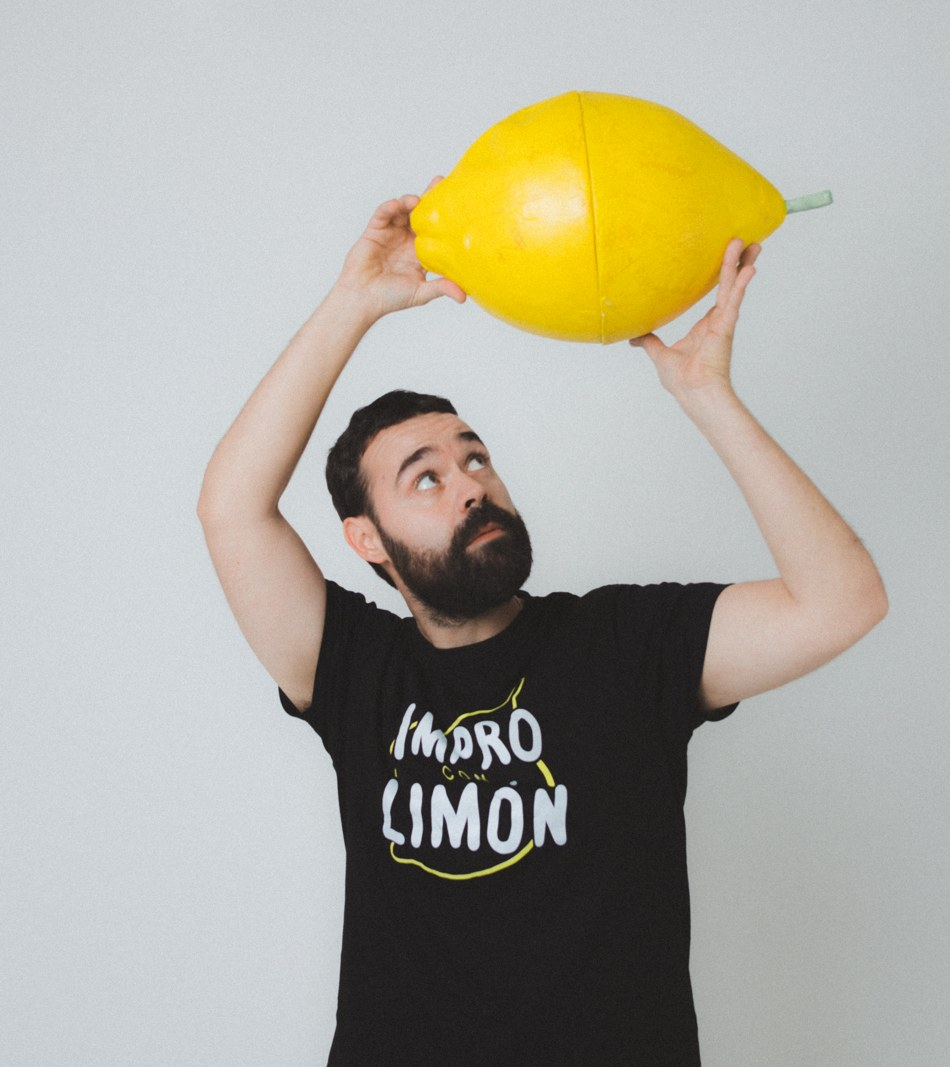
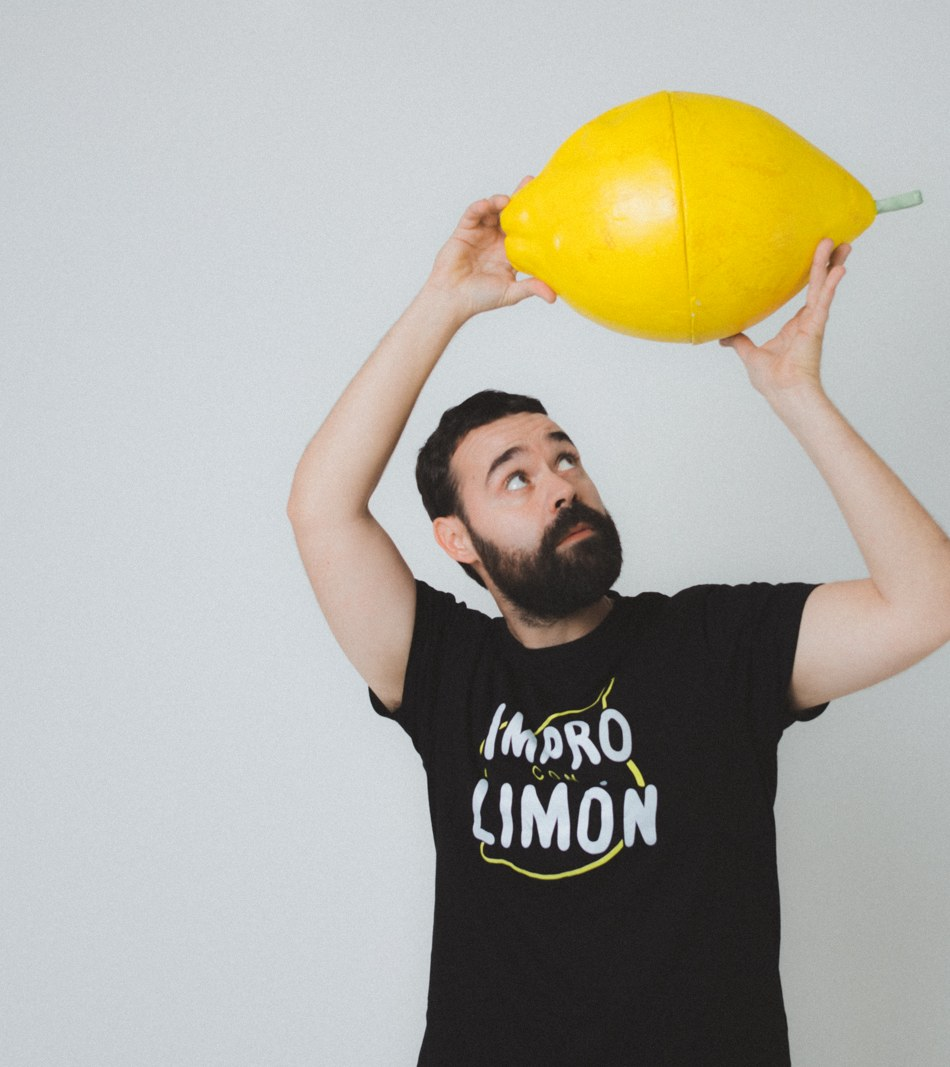
Recenter Héctor mobile photo on his head

diff --git a/index.html b/index.html
@@ -17,7 +17,7 @@
   <link rel="preconnect" href="https://fonts.googleapis.com">
   <link rel="preconnect" href="https://fonts.gstatic.com" crossorigin>
   <link href="https://fonts.googleapis.com/css2?family=Londrina+Solid:wght@300;400;900&family=Open+Sans:wght@400;600;700&display=swap" rel="stylesheet">
-  <link rel="stylesheet" href="styles.css?v=262">
+  <link rel="stylesheet" href="styles.css?v=263">
 </head>
 <body>
 <svg width="0" height="0" style="position:absolute" aria-hidden="true"><filter id="to-lemon" color-interpolation-filters="sRGB"><feColorMatrix type="matrix" values="0 0 0 0 .961  0 0 0 0 .902  0 0 0 0 .122  0 0 0 1 0"/></filter></svg>

diff --git a/styles.css b/styles.css
@@ -945,7 +945,7 @@ footer .social svg{width:26px;height:26px}
 
 /* Héctor en móvil (marco vertical): se desplaza el recorte para que no se corten los brazos */
 @media(max-width:900px),(max-aspect-ratio:1/1){
-  #actores .cast-bg img[src*="hector/1"]{content:url(img/hector/1-movil.jpg?v=2);object-position:50% 20%!important}
+  #actores .cast-bg img[src*="hector/1"]{content:url(img/hector/1-movil.jpg?v=3);object-position:50% 20%!important}
   #actores .cast-bg img[src*="hector/2"]{object-position:18% 20%!important}
 }
 
